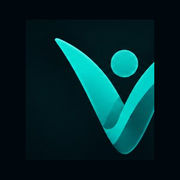
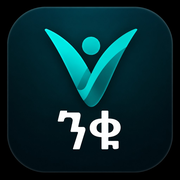
logo1

diff --git a/src/layouts/OwnerLayout.jsx b/src/layouts/OwnerLayout.jsx
@@ -147,7 +147,7 @@ export default function OwnerLayout() {
         >
           <Menu className="h-6 w-6" />
         </button>
-        <BrandLogo className="h-8 max-w-[9.5rem]" />
+        <BrandLogo className="h-9 w-9" />
         <div className="flex items-center gap-0.5">
           <button
             type="button"
@@ -186,7 +186,7 @@ export default function OwnerLayout() {
               <X className="h-6 w-6" />
             </button>
             <div className="mb-8 mt-2">
-              <BrandLogo className="h-11 max-w-[12rem]" />
+              <BrandLogo className="h-12 w-12 rounded-2xl" />
             </div>
             <nav className="flex-1 space-y-1">
               {menuItems.map((item) => renderNavLink(item, () => setSidebarOpen(false)))}
@@ -197,7 +197,7 @@ export default function OwnerLayout() {
 
       <aside className={`fixed inset-y-0 left-0 z-30 hidden w-64 flex-col border-r border-slate-200 p-6 lg:flex ${sidebarSurface}`}>
         <div className="mb-8">
-          <BrandLogo className="h-11 max-w-[12rem]" />
+          <BrandLogo className="h-12 w-12 rounded-2xl" />
         </div>
         <nav className="flex-1 space-y-1">
           {menuItems.map((item) => renderNavLink(item, undefined))}

diff --git a/src/layouts/AdminLayout.jsx b/src/layouts/AdminLayout.jsx
@@ -127,7 +127,7 @@ export default function AdminLayout() {
         >
           <Menu className="h-6 w-6" />
         </button>
-        <BrandLogo className="h-8 max-w-[9.5rem]" />
+        <BrandLogo className="h-9 w-9" />
         <div className="flex items-center gap-0.5">
           <LanguageSwitcher compact />
           <UserProfileMenu compact />
@@ -142,7 +142,7 @@ export default function AdminLayout() {
               <X className="h-6 w-6" />
             </button>
             <div className="mb-8 mt-2">
-              <BrandLogo className="h-11 max-w-[12rem]" />
+              <BrandLogo className="h-12 w-12 rounded-2xl" />
             </div>
             <nav className="mb-auto space-y-1">
               {adminNavItems.map((item) => (
@@ -163,7 +163,7 @@ export default function AdminLayout() {
 
       <aside className={`fixed inset-y-0 left-0 z-30 hidden w-64 flex-col border-r border-slate-200 p-6 lg:flex ${sidebarSurface}`}>
         <div className="mb-8">
-          <BrandLogo className="h-11 max-w-[12rem]" />
+          <BrandLogo className="h-12 w-12 rounded-2xl" />
         </div>
         <nav className="space-y-1">
           {adminNavItems.map((item) => (

diff --git a/src/components/BrandLogo.jsx b/src/components/BrandLogo.jsx
@@ -1,27 +1,13 @@
 /**
- * Brand mark — Niku lockup (sidebar / header) or icon-only (compact).
+ * Brand mark — Niku app icon (V + ንቁ).
+ * Pass className to size (e.g. h-12 w-12 rounded-2xl).
  */
-export default function BrandLogo({
-  variant = 'lockup',
-  className = '',
-  imgClassName = '',
-}) {
-  if (variant === 'icon') {
-    return (
-      <img
-        src="/app-icon.png"
-        alt=""
-        className={`h-9 w-9 rounded-full object-cover ${imgClassName} ${className}`}
-        aria-hidden
-      />
-    );
-  }
-
+export default function BrandLogo({ className = '', imgClassName = '' }) {
   return (
     <img
-      src="/brand-logo.png"
+      src="/app-icon.png"
       alt="ንቁ"
-      className={`h-10 w-auto max-w-[11rem] object-contain object-left ${imgClassName} ${className}`}
+      className={`h-10 w-10 rounded-xl object-cover ${imgClassName} ${className}`}
     />
   );
 }

diff --git a/index.html b/index.html
@@ -2,8 +2,9 @@
 <html lang="en">
   <head>
     <meta charset="UTF-8" />
-    <link rel="icon" type="image/png" href="/favicon.png" />
-    <link rel="apple-touch-icon" href="/apple-touch-icon.png" />
+    <link rel="icon" type="image/png" sizes="64x64" href="/favicon.png?v=niku" />
+    <link rel="icon" type="image/png" sizes="32x32" href="/favicon-32.png?v=niku" />
+    <link rel="apple-touch-icon" href="/apple-touch-icon.png?v=niku" />
     <meta name="viewport" content="width=device-width, initial-scale=1.0, viewport-fit=cover" />
     <meta name="theme-color" content="#f8fafc" />
     <meta name="mobile-web-app-capable" content="yes" />

diff --git a/src/components/auth/LoginBrandPanel.jsx b/src/components/auth/LoginBrandPanel.jsx
@@ -2,9 +2,9 @@ export default function LoginBrandPanel() {
   return (
     <div className="mb-5 flex flex-col items-center text-center animate-in fade-in duration-500">
       <img
-        src="/brand-logo.png"
+        src="/app-icon.png"
         alt="ንቁ"
-        className="w-full max-w-[18rem] object-contain"
+        className="h-24 w-24 rounded-[1.35rem] object-cover shadow-lg ring-1 ring-white/10 sm:h-28 sm:w-28 sm:rounded-[1.5rem]"
       />
     </div>
   );
